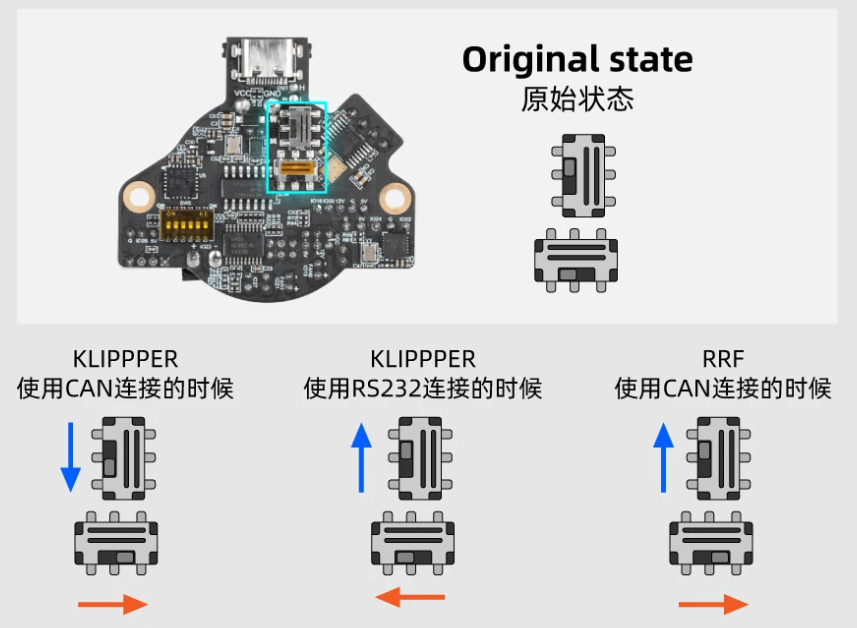
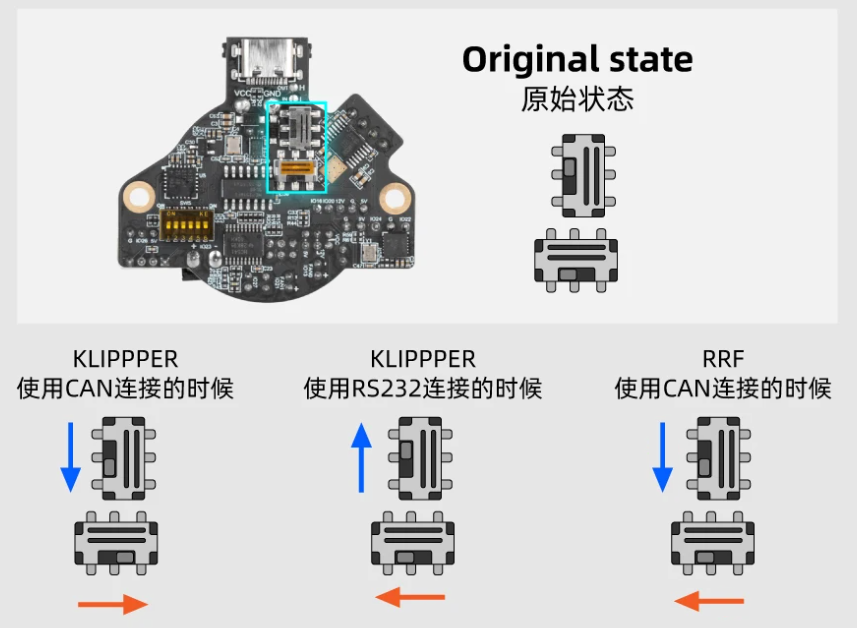
add 3.5.2 and update SHTv3 switch positions

Changed region(s): [[0.7888, 0.8169, 0.8798, 0.9682], [0.7585, 0.6656, 0.8495, 0.7866], [0.7585, 0.8471, 0.7888, 0.8774]]

diff --git a/pages/mydoc/Release_Notes/3.5/release_notes_3.5.2.md b/pages/mydoc/Release_Notes/3.5/release_notes_3.5.2.md
@@ -1,0 +1,26 @@
+---
+title: Release notes release_notes_3.5.2
+tags: [getting_started]
+keywords: release notes, announcements, what's new, new features
+last_updated: 18/06/2024
+summary: "Release notes for the unstable release of 3.5.2"
+sidebar: mydoc_sidebar
+permalink: release_notes_3.5.2.html
+folder: mydoc
+toc: false
+comments: false
+---
+
+## Duet3D Release Notes for 3.5.2
+
+Please see the Duet3D [release notes for 3.5.2-rc.1](https://github.com/Duet3D/RepRapFirmware/wiki/Changelog-RRF-3.x#reprapfirmware-352) to see whats new and what has been fixed in this release since 3.5.1.  
+
+## RepRapFirmware for STM32F4 and STM32H7 Release Notes for 3.5.2 from 3.5.1
+
+* Duet3d 3.5.2
+* New startup code to support boards with no SD card
+* Fix for running out of CCMRAM
+* Increase SPICAN board reset timeout
+* Fly MMU support
+* Fix error message if WiFi module type is unknown
+* Added support for Fly Pro X10 STM32H723

diff --git a/index.md b/index.md
@@ -1,6 +1,6 @@
 ---
 title: "Getting started with RepRapFirmware for LPC and STM32 based boards"
-last_updated: 21/04/2024
+last_updated: 18/06/2024
 sidebar: mydoc_sidebar
 permalink: index.html
 summary: These instructions will help you to get started running RepRapFirmware on your LPC or STM32 based 3D printer board
@@ -18,11 +18,11 @@ The LPC port was originally created by [sadvi](https://github.com/sdavi). Suppor
 
 ### Latest Stable STM32F4 and STM32H7 Build
 
-The latest stable version is [3.5.1](https://github.com/gloomyandy/RepRapFirmware/releases/tag/3.5.1)
+The latest stable version is [3.5.1](https://github.com/gloomyandy/RepRapFirmware/releases/tag/3.5.2)
 
 ### Latest Unstable STM32F4, STM32H7 and STM32H723 Build
 
-The latest unstable version is [3.5.2-rc.1](https://github.com/gloomyandy/RepRapFirmware/releases/tag/v3.5.2-rc.1)
+There are currently no unstable versions.  
 
 ### Latest Stable LPC Build
 

diff --git a/pages/mydoc/Release_Notes/3.5/release_notes_3.5.2-rc.1.md b/pages/mydoc/Release_Notes/3.5/release_notes_3.5.2-rc.1.md
@@ -13,7 +13,7 @@ comments: false
 
 ## Duet3D Release Notes for 3.5.2-rc.1
 
-Please see the Duet3D [release notes for 3.5.2-rc.1](https://github.com/Duet3D/RepRapFirmware/wiki/Changelog-RRF-3.x-RC#reprapfirmware-352-rc1-changes-since-351) to see whats new and what has been fixed in this release since 3.4.6.  
+Please see the Duet3D [release notes for 3.5.2-rc.1](https://github.com/Duet3D/RepRapFirmware/wiki/Changelog-RRF-3.x-RC#reprapfirmware-352-rc1-changes-since-351) to see whats new and what has been fixed in this release since 3.5.1.  
 
 ## RepRapFirmware for STM32F4 and STM32H7 Release Notes for 3.5.2-rc.1 from 3.5.1
 
